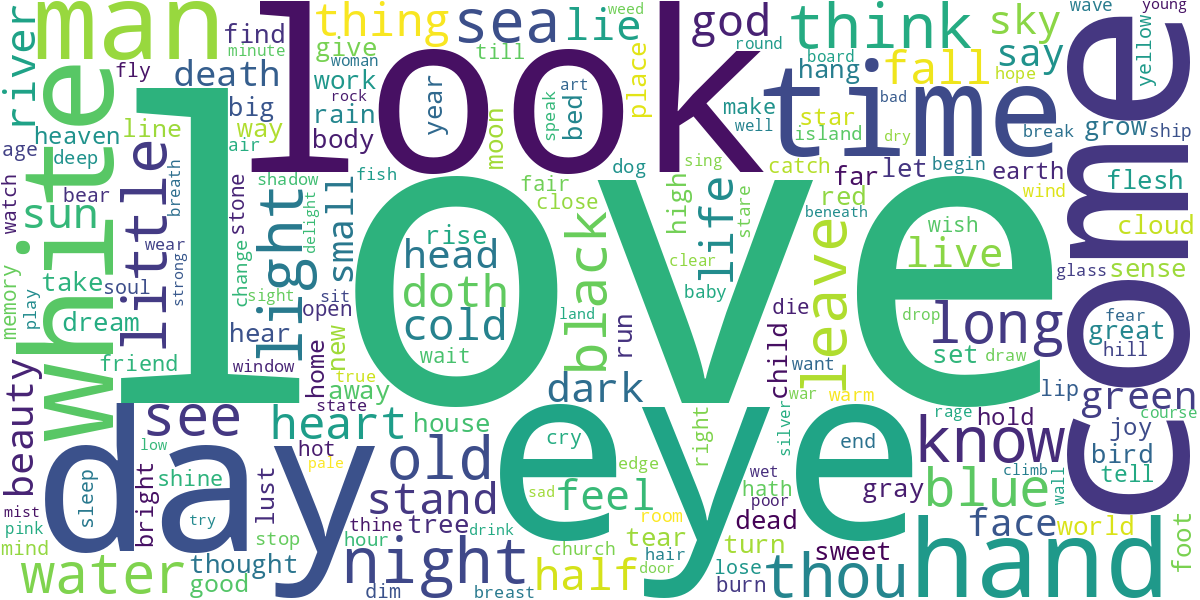
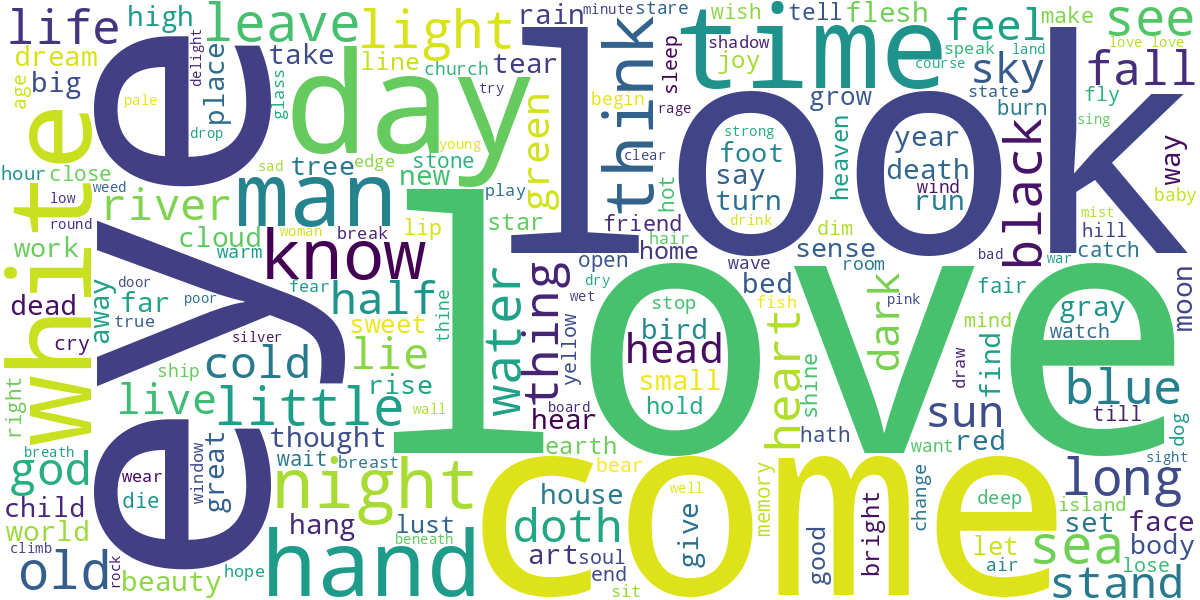
novo bertopic

diff --git a/modelagemTopicos/ctfidf.py b/modelagemTopicos/ctfidf.py
@@ -16,13 +16,13 @@ os.environ["TOKENIZERS_PARALLELISM"] = "false"
 # 1. CONFIGURAÇÕES E CONSTANTES
 # =======================================================================
 
-TITLE = "original"
-CAMINHO_CSV = "results/ingles_portugues/original/poemas_com_topicos_original.csv"
+TITLE = "reference"
+CAMINHO_CSV = "results/ingles_portugues/reference/poemas_com_topicos_reference.csv" # chatGPTPrompt1 googleTradutor maritacaPrompt1
 PASTA_SAIDA = "results"
-COLUNA_POEMAS = "original_poem"
+COLUNA_POEMAS = "translated_poem" # "original_poem", "translated_poem", "translated_by_TA"
 IDIOMA_ORIGEM = "en_XX"
 IDIOMA_DESTINO = "pt_XX"
-IDIOMA_PROC = "en_XX"
+IDIOMA_PROC = "pt_XX"
 
 correcoes_lemas = {
     "conheçar": "conhecer",
